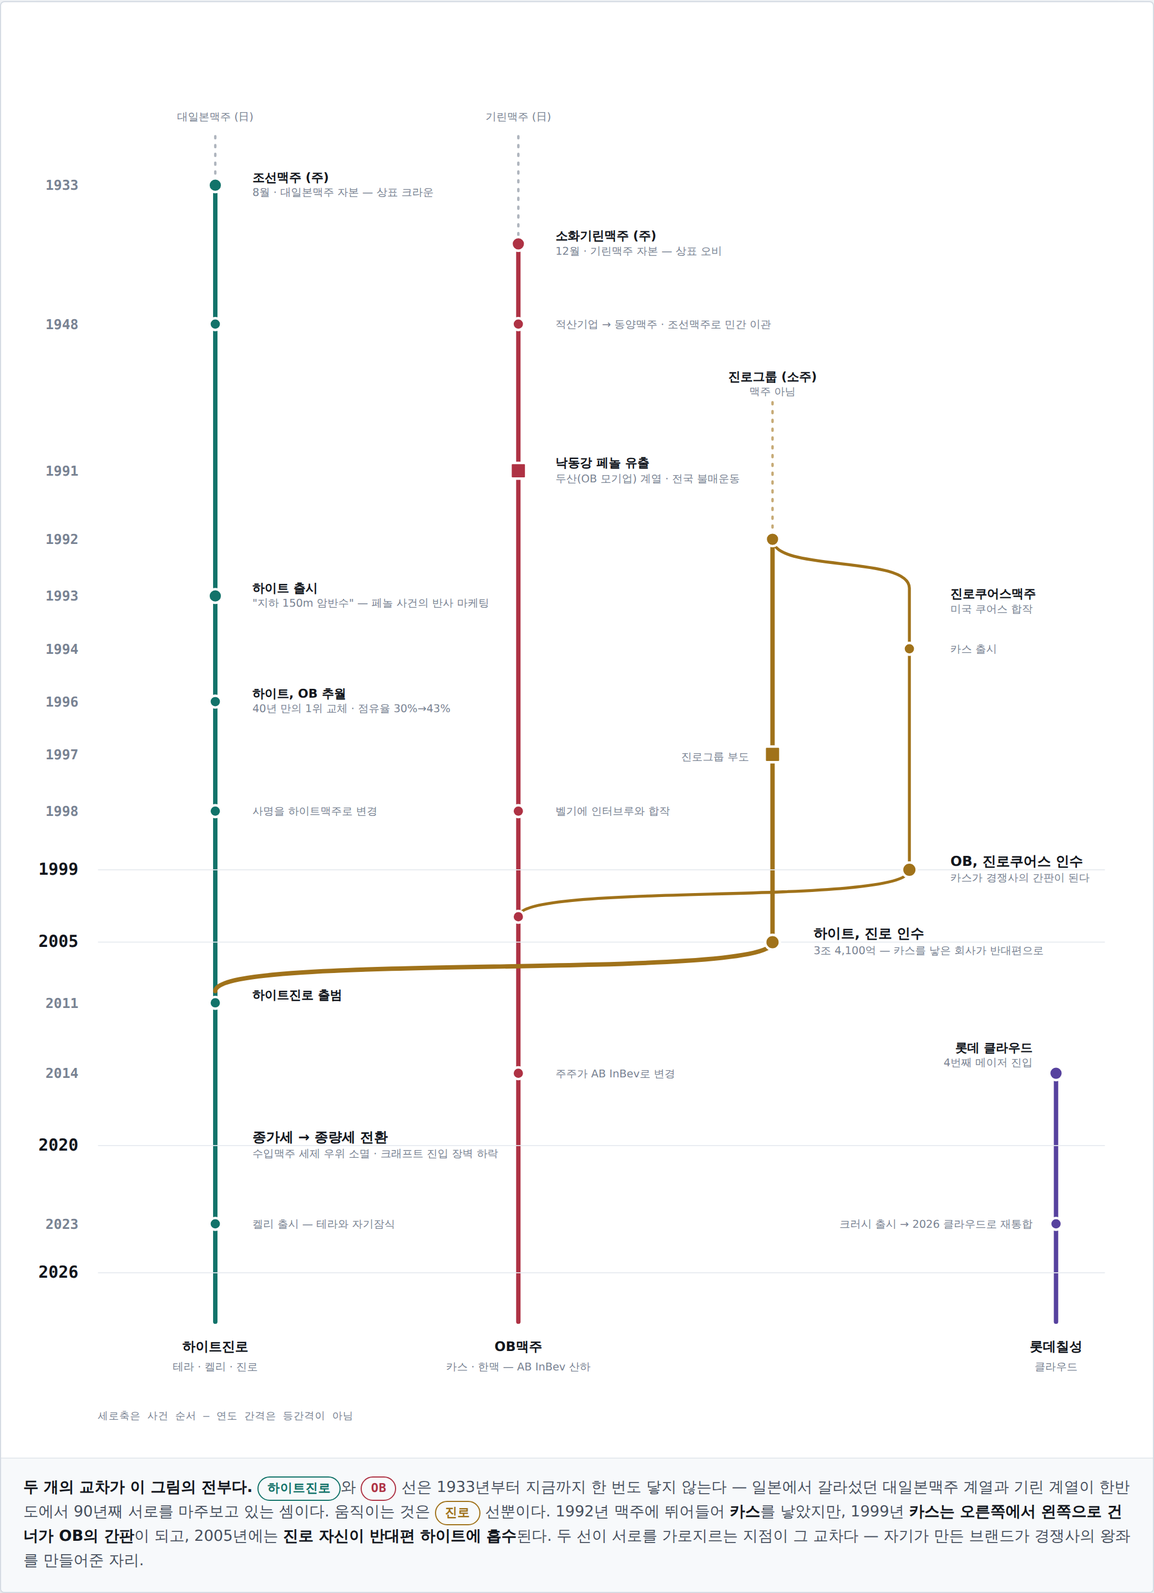
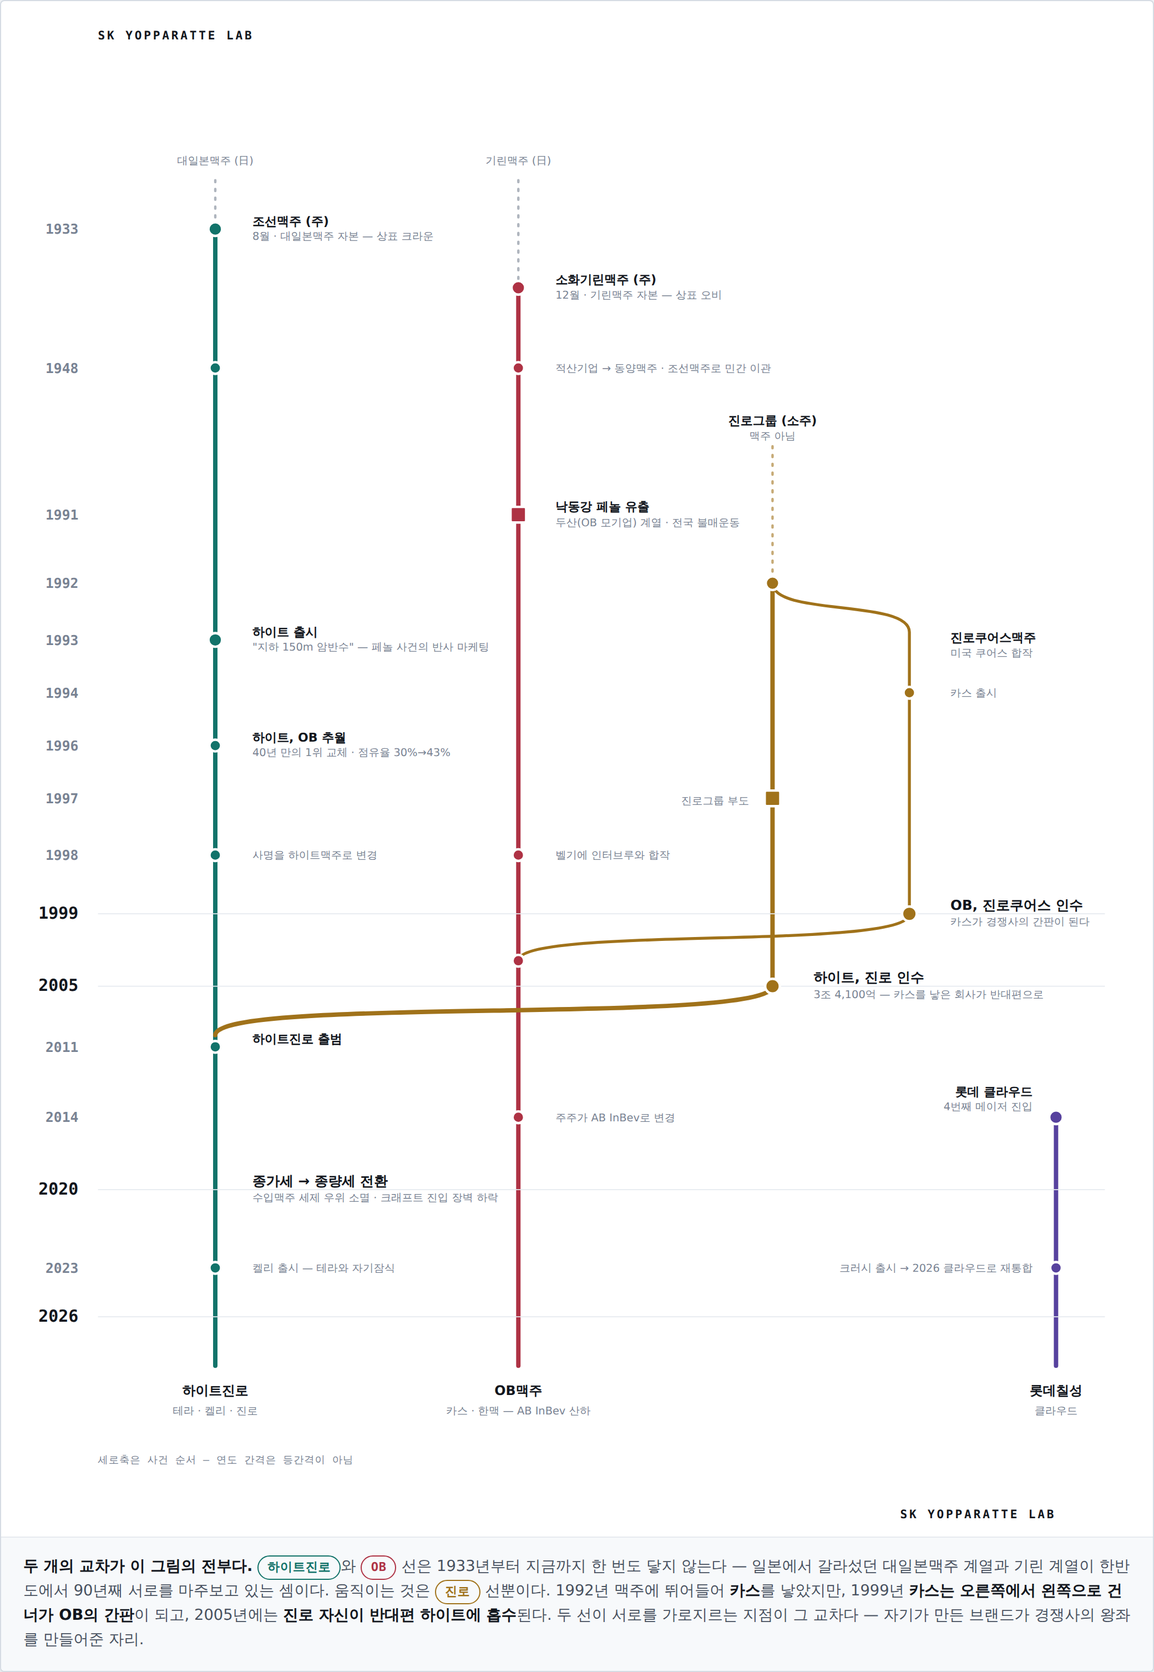
모든 문서 상하단에 SK YOPPARATTE LAB 제작 표기
- HTML 6종: 제목 위 kicker + 하단 크레딧(연도·자료 출처 병기), 굵게
- SVG 5종: 캔버스를 위아래로 확장(viewBox y=-46, 높이 +82)하고
  상단 좌측·하단 우측에 마크 각인 — 그림 파일만 따로 공유돼도 제작처가 남는다
- SVG/PNG 11종 재생성
- mkig.py/mksvg.py: 음수 원점 viewBox 파싱 대응
  (기존 정규식은 <svg>가 아닌 중첩 <marker>의 viewBox를 먼저 잡는 버그도 있었다)

Claude-Session: https://claude.ai/code/session_01KUBqCbH6Pr7kL3zk5exDHD

diff --git a/genealogy/beer-genealogy.html b/genealogy/beer-genealogy.html
@@ -1,5 +1,3 @@
-<meta charset="utf-8">
-<meta name="viewport" content="width=device-width,initial-scale=1">
 <title>일본·한국 맥주 계보</title>
 
 <style>
@@ -97,10 +95,17 @@
   .s-kr .axn{font-size:13.3px;fill:var(--ink-3);font-family:ui-monospace,Menlo,monospace}
   .s-kr .ft{fill:var(--lotte)}
   .s-kr .t{stroke:var(--lotte)}
+  .lab{margin:0 0 12px;font-family:ui-monospace,Menlo,Consolas,monospace;font-size:.8rem;
+    font-weight:800;letter-spacing:.2em;color:var(--ink)}
+  .labfoot{margin-top:44px;padding-top:18px;border-top:1px solid var(--rule);
+    font-family:ui-monospace,Menlo,Consolas,monospace;font-size:.76rem;letter-spacing:.14em;color:var(--ink-3)}
+  .labfoot b{font-weight:800;letter-spacing:.2em;color:var(--ink)}
+  .svglab{font-family:ui-monospace,Menlo,Consolas,monospace;font-weight:800;letter-spacing:.18em;fill:var(--ink)}
 </style>
 
 <div class="wrap">
 <header>
+  <p class="lab">SK YOPPARATTE LAB</p>
   <h1>일본 · 한국 맥주 계보도<br>한 장으로 잇는 두 나라의 혈통</h1>
   <p class="sub">일본은 <b>합병과 강제 분할</b>의 역사이고, 한국은 <b>평행선과 엇갈린 교차</b>의 역사다.
   두 그림은 따로 그려졌지만 뿌리에서 이어져 있다 — 1933년 한반도의 두 맥주 회사를 세운 것이
@@ -113,7 +118,7 @@
   <p class="lead">여섯 혈통의 탄생, 1906년의 거대 합병, 1949년 GHQ의 강제 분할, 그리고 후발 주자의 합류.
   선이 모이면 합병, 갈라지면 분할이다. 맨 아래에는 각 회사의 오늘의 대표 제품과 <b>맛의 결</b>, 시장 점유율을 두었다.</p>
   <figure><div class="canvas">
-<svg viewBox="0 0 1340 2084" role="img" aria-label="일본 맥주 6개 회사 계보도. 기린은 1870년부터 끊기지 않는 독자 노선을 유지한다. 삿포로·에비스·아사히는 1906년 대일본맥주로 합병되어 회색 줄기가 되었다가 1949년 GHQ 명령으로 삿포로와 아사히 둘로 분할된다. 에비스는 1943년 상표가 소멸했다가 1971년 삿포로 산하로 부활한다. 산토리는 1963년, 오리온은 1957년에 합류하며 2019년 오리온은 아사히 산하로 들어간다. 여섯 계보는 각자의 대표 제품으로 이어진다.">
+<svg viewBox="0 -46 1340 2166" role="img" aria-label="일본 맥주 6개 회사 계보도. 기린은 1870년부터 끊기지 않는 독자 노선을 유지한다. 삿포로·에비스·아사히는 1906년 대일본맥주로 합병되어 회색 줄기가 되었다가 1949년 GHQ 명령으로 삿포로와 아사히 둘로 분할된다. 에비스는 1943년 상표가 소멸했다가 1971년 삿포로 산하로 부활한다. 산토리는 1963년, 오리온은 1957년에 합류하며 2019년 오리온은 아사히 산하로 들어간다. 여섯 계보는 각자의 대표 제품으로 이어진다.">
 <defs>
   <marker id="ar" viewBox="0 0 10 10" refX="8" refY="5" markerWidth="6" markerHeight="6" orient="auto-start-reverse">
     <path d="M0 1 L9 5 L0 9 z" fill="var(--orion)"/>
@@ -347,6 +352,9 @@
 <text class="shp fo" x="980" y="2000.0" text-anchor="middle">1%</text>
 <text class="axn" x="150" y="2040.0">세로축은 사건 순서 — 연도 간격은 등간격이 아님 · 아이콘·제품 그림은 브랜드 로고가 아닌 자체 제작</text>
 <text class="axn" x="150" y="2060.0">점유율은 맥주계 음료(ビール類) 기준 근사치 · 에비스는 삿포로 실적에 포함 · 오리온은 아사히 산하지만 별도 법인</text>
+
+<text class="svglab" x="150" y="-16" style="font-size:13px">SK YOPPARATTE LAB</text>
+<text class="svglab" x="1310" y="2110" text-anchor="end" style="font-size:13px">SK YOPPARATTE LAB</text>
 </svg>
   </div>
 <figcaption>
@@ -377,7 +385,7 @@
   <p class="lead">서로 다른 일본 자본에서 출발한 두 축은 90년간 한 번도 만나지 않는다.
   움직이는 것은 중간에 끼어든 제3의 선, <b>진로</b>뿐이다.</p>
   <figure><div class="canvas">
-<svg viewBox="0 0 1590 2250" role="img" aria-label="한국 맥주 계보도. 1933년 조선맥주와 소화기린맥주가 서로 다른 일본 자본으로 설립되고, 1948년 소화기린은 동양맥주로 바뀌며 상표 OB가 등장한 뒤 1995년 사명까지 OB맥주가 된다. 두 선은 90년간 만나지 않는다. 1992년 진로쿠어스가 세워져 1994년 카스를 내지만 1999년 카스는 OB로, 2005년 진로 자신은 하이트로 넘어가며 두 선이 교차한다. 롯데는 2014년 클라우드로 진입한다.">
+<svg viewBox="0 -46 1590 2332" role="img" aria-label="한국 맥주 계보도. 1933년 조선맥주와 소화기린맥주가 서로 다른 일본 자본으로 설립되고, 1948년 소화기린은 동양맥주로 바뀌며 상표 OB가 등장한 뒤 1995년 사명까지 OB맥주가 된다. 두 선은 90년간 만나지 않는다. 1992년 진로쿠어스가 세워져 1994년 카스를 내지만 1999년 카스는 OB로, 2005년 진로 자신은 하이트로 넘어가며 두 선이 교차한다. 롯데는 2014년 클라우드로 진입한다.">
 <defs>
 <linearGradient id="g99" x1="990" y1="0" x2="640" y2="0" gradientUnits="userSpaceOnUse">
   <stop offset="0" stop-color="var(--jinro)"/><stop offset="0.45" stop-color="var(--jinro)"/><stop offset="1" stop-color="var(--ob)"/>
@@ -561,6 +569,9 @@
 <text class="axn" x="150" y="2154">굵은 선 = 맥주 계보 · 가는 선 = 비(非)맥주(소주 진로) — 주제 밖 맥락으로 표시</text>
 <text class="axn" x="150" y="2176">세로축은 사건 순서 — 연도 간격은 등간격이 아님 · 아이콘·제품 그림은 브랜드 로고가 아닌 자체 제작</text>
 <text class="axn" x="150" y="2198">점유율은 제조사 기준 근사치 · 진로는 소주 부문으로 하이트진로에 포함</text>
+
+<text class="svglab" x="150" y="-16" style="font-size:13px">SK YOPPARATTE LAB</text>
+<text class="svglab" x="1540" y="2276" text-anchor="end" style="font-size:13px">SK YOPPARATTE LAB</text>
 </svg>
   </div>
 <figcaption>
@@ -573,4 +584,5 @@
 </figcaption>
   </figure>
 </section>
+<div class="labfoot"><b>SK YOPPARATTE LAB</b> · 2026 · Google Drive 「주류학개론 / 맥주」 자료 기준</div>
 </div>

diff --git a/genealogy/kr-infographic.html b/genealogy/kr-infographic.html
@@ -56,16 +56,23 @@
   .pr{font-weight:800;fill:var(--new)}
   .shn{font-size:12.7px;font-weight:600;fill:var(--ink-3)}
   .axn{font-size:13.3px;fill:var(--ink-3);font-family:ui-monospace,Menlo,monospace}
+  .lab{margin:0 0 12px;font-family:ui-monospace,Menlo,Consolas,monospace;font-size:.8rem;
+    font-weight:800;letter-spacing:.2em;color:var(--ink)}
+  .labfoot{margin-top:44px;padding-top:18px;border-top:1px solid var(--rule);
+    font-family:ui-monospace,Menlo,Consolas,monospace;font-size:.76rem;letter-spacing:.14em;color:var(--ink-3)}
+  .labfoot b{font-weight:800;letter-spacing:.2em;color:var(--ink)}
+  .svglab{font-family:ui-monospace,Menlo,Consolas,monospace;font-weight:800;letter-spacing:.18em;fill:var(--ink)}
 </style>
 
 <div class="wrap">
 <header>
+  <p class="lab">SK YOPPARATTE LAB</p>
   <h1>한국 맥주 90년 계보도<br>평행선과 엇갈린 교차</h1>
   <p class="sub">1933년 <b>조선맥주</b>와 <b>소화기린맥주</b>—서로 다른 일본 자본에서 출발한 두 축은 90년간 한 번도 만나지 않는다.
   움직이는 것은 중간에 끼어든 제3의 선뿐이다.</p>
 </header>
 <figure><div class="canvas">
-<svg viewBox="0 0 1590 2250" role="img" aria-label="한국 맥주 계보도. 1933년 조선맥주와 소화기린맥주가 서로 다른 일본 자본으로 설립되고, 1948년 소화기린은 동양맥주로 바뀌며 상표 OB가 등장한 뒤 1995년 사명까지 OB맥주가 된다. 두 선은 90년간 만나지 않는다. 1992년 진로쿠어스가 세워져 1994년 카스를 내지만 1999년 카스는 OB로, 2005년 진로 자신은 하이트로 넘어가며 두 선이 교차한다. 롯데는 2014년 클라우드로 진입한다.">
+<svg viewBox="0 -46 1590 2332" role="img" aria-label="한국 맥주 계보도. 1933년 조선맥주와 소화기린맥주가 서로 다른 일본 자본으로 설립되고, 1948년 소화기린은 동양맥주로 바뀌며 상표 OB가 등장한 뒤 1995년 사명까지 OB맥주가 된다. 두 선은 90년간 만나지 않는다. 1992년 진로쿠어스가 세워져 1994년 카스를 내지만 1999년 카스는 OB로, 2005년 진로 자신은 하이트로 넘어가며 두 선이 교차한다. 롯데는 2014년 클라우드로 진입한다.">
 <defs>
 <linearGradient id="g99" x1="990" y1="0" x2="640" y2="0" gradientUnits="userSpaceOnUse">
   <stop offset="0" stop-color="var(--jinro)"/><stop offset="0.45" stop-color="var(--jinro)"/><stop offset="1" stop-color="var(--ob)"/>
@@ -249,6 +256,9 @@
 <text class="axn" x="150" y="2154">굵은 선 = 맥주 계보 · 가는 선 = 비(非)맥주(소주 진로) — 주제 밖 맥락으로 표시</text>
 <text class="axn" x="150" y="2176">세로축은 사건 순서 — 연도 간격은 등간격이 아님 · 아이콘·제품 그림은 브랜드 로고가 아닌 자체 제작</text>
 <text class="axn" x="150" y="2198">점유율은 제조사 기준 근사치 · 진로는 소주 부문으로 하이트진로에 포함</text>
+
+<text class="svglab" x="150" y="-16" style="font-size:13px">SK YOPPARATTE LAB</text>
+<text class="svglab" x="1540" y="2276" text-anchor="end" style="font-size:13px">SK YOPPARATTE LAB</text>
 </svg>
 </div>
 <figcaption>
@@ -259,4 +269,5 @@
 두 선은 끝까지 닿지 않는다. 움직이는 것은 <span style="color:var(--jinro);font-weight:700">진로</span> 선뿐이다 —
 1992년 맥주에 뛰어들어 <b>카스</b>를 낳았지만, 진로그룹이 부도나며 <b>둘이 정반대로 갈라진다</b> — 맥주 브랜드 <b>카스</b>는 1999년 오른쪽 <b>OB</b>로(그 뒤 지금까지 OB 제품), 소주 본체 <b>진로</b>는 2005년 왼쪽 <b>하이트</b>로.
 </figcaption>
-</figure></div>
+</figure><div class="labfoot"><b>SK YOPPARATTE LAB</b> · 2026 · Google Drive 「주류학개론 / 맥주」 자료 기준</div>
+</div>

diff --git a/genealogy/jp-infographic.html b/genealogy/jp-infographic.html
@@ -59,10 +59,17 @@
   .axn{font-size:12.1px;fill:var(--ink-3);font-family:ui-monospace,Menlo,monospace}
   .tst{font-size:12.3px;font-weight:600;fill:var(--ink-3)}
   .tsh{font-size:11.5px;font-weight:700;fill:var(--ink-3);letter-spacing:.06em}
+  .lab{margin:0 0 12px;font-family:ui-monospace,Menlo,Consolas,monospace;font-size:.8rem;
+    font-weight:800;letter-spacing:.2em;color:var(--ink)}
+  .labfoot{margin-top:44px;padding-top:18px;border-top:1px solid var(--rule);
+    font-family:ui-monospace,Menlo,Consolas,monospace;font-size:.76rem;letter-spacing:.14em;color:var(--ink-3)}
+  .labfoot b{font-weight:800;letter-spacing:.2em;color:var(--ink)}
+  .svglab{font-family:ui-monospace,Menlo,Consolas,monospace;font-weight:800;letter-spacing:.18em;fill:var(--ink)}
 </style>
 
 <div class="wrap">
 <header>
+  <p class="lab">SK YOPPARATTE LAB</p>
   <h1>일본 맥주 150년 계보도<br>통합과 분리의 역사</h1>
   <p class="sub">1870년부터 오늘까지, 여섯 혈통의 탄생과 거대 합병, 강제 분할, 그리고 후발 주자의 등장.
   선이 모이면 합병, 갈라지면 분할이다.</p>
@@ -70,7 +77,7 @@
 
 <figure>
 <div class="canvas">
-<svg viewBox="0 0 1340 2084" role="img" aria-label="일본 맥주 6개 회사 계보도. 기린은 1870년부터 끊기지 않는 독자 노선을 유지한다. 삿포로·에비스·아사히는 1906년 대일본맥주로 합병되어 회색 줄기가 되었다가 1949년 GHQ 명령으로 삿포로와 아사히 둘로 분할된다. 에비스는 1943년 상표가 소멸했다가 1971년 삿포로 산하로 부활한다. 산토리는 1963년, 오리온은 1957년에 합류하며 2019년 오리온은 아사히 산하로 들어간다. 여섯 계보는 각자의 대표 제품으로 이어진다.">
+<svg viewBox="0 -46 1340 2166" role="img" aria-label="일본 맥주 6개 회사 계보도. 기린은 1870년부터 끊기지 않는 독자 노선을 유지한다. 삿포로·에비스·아사히는 1906년 대일본맥주로 합병되어 회색 줄기가 되었다가 1949년 GHQ 명령으로 삿포로와 아사히 둘로 분할된다. 에비스는 1943년 상표가 소멸했다가 1971년 삿포로 산하로 부활한다. 산토리는 1963년, 오리온은 1957년에 합류하며 2019년 오리온은 아사히 산하로 들어간다. 여섯 계보는 각자의 대표 제품으로 이어진다.">
 <defs>
   <marker id="ar" viewBox="0 0 10 10" refX="8" refY="5" markerWidth="6" markerHeight="6" orient="auto-start-reverse">
     <path d="M0 1 L9 5 L0 9 z" fill="var(--orion)"/>
@@ -304,6 +311,9 @@
 <text class="shp fo" x="980" y="2000.0" text-anchor="middle">1%</text>
 <text class="axn" x="150" y="2040.0">세로축은 사건 순서 — 연도 간격은 등간격이 아님 · 아이콘·제품 그림은 브랜드 로고가 아닌 자체 제작</text>
 <text class="axn" x="150" y="2060.0">점유율은 맥주계 음료(ビール類) 기준 근사치 · 에비스는 삿포로 실적에 포함 · 오리온은 아사히 산하지만 별도 법인</text>
+
+<text class="svglab" x="150" y="-16" style="font-size:13px">SK YOPPARATTE LAB</text>
+<text class="svglab" x="1310" y="2110" text-anchor="end" style="font-size:13px">SK YOPPARATTE LAB</text>
 </svg>
 </div>
 <figcaption>
@@ -316,4 +326,5 @@
 여섯 계보는 합쳐지지 않고, 각자 오늘의 대표 제품으로 이어진다.
 </figcaption>
 </figure>
+<div class="labfoot"><b>SK YOPPARATTE LAB</b> · 2026 · Google Drive 「주류학개론 / 맥주」 자료 기준</div>
 </div>

diff --git a/genealogy/kr-beer-genealogy.html b/genealogy/kr-beer-genealogy.html
@@ -142,11 +142,17 @@
   .note{margin-top:26px;padding:14px 18px;border-left:3px solid var(--rule);background:var(--panel-2);font-size:.855rem;color:var(--ink-2);border-radius:0 4px 4px 0}
   .note b{color:var(--ink)}
   footer{margin-top:56px;padding-top:20px;border-top:1px solid var(--rule);font-size:.8rem;color:var(--ink-3)}
+  .lab{margin:0 0 12px;font-family:ui-monospace,Menlo,Consolas,monospace;font-size:.8rem;
+    font-weight:800;letter-spacing:.2em;color:var(--ink)}
+  .labname{font-family:ui-monospace,Menlo,Consolas,monospace;font-weight:800;
+    letter-spacing:.2em;color:var(--ink)}
+  .svglab{font-family:ui-monospace,Menlo,Consolas,monospace;font-weight:800;letter-spacing:.18em;fill:var(--ink)}
 </style>
 
 <div class="wrap">
 
 <header>
+  <p class="lab">SK YOPPARATTE LAB</p>
   <p class="eyebrow">계보도 · 1933–2026</p>
   <h1>한국 맥주 90년,<br>두 일본 자본이 만든 평행선</h1>
   <p class="thesis">
@@ -164,7 +170,7 @@
 
   <figure>
     <div class="canvas">
-      <svg viewBox="0 0 1160 1470" role="img"
+      <svg viewBox="0 -46 1160 1552" role="img"
            aria-label="한국 맥주 계보도. 1933년 8월 대일본맥주 자본으로 조선맥주가, 같은 해 12월 기린맥주 자본으로 소화기린맥주가 설립되어 각각 하이트진로와 OB맥주가 된다. 두 선은 90년간 만나지 않는다. 1992년 진로그룹이 쿠어스와 합작해 진로쿠어스를 만들고 1994년 카스를 출시하지만, 1999년 카스는 OB로 넘어가고 2005년 진로 자신은 하이트에 인수되어 두 선이 서로 교차한다. 롯데는 2014년 클라우드로 뒤늦게 진입한다.">
 
         <!-- ── 일본 모자본 점선 ── -->
@@ -310,6 +316,9 @@
         <text class="lbl sub" x="1070" y="1390" text-anchor="middle">클라우드</text>
 
         <text class="axnote" x="90" y="1440">세로축은 사건 순서 — 연도 간격은 등간격이 아님</text>
+      
+        <text class="svglab" x="90" y="-16" style="font-size:12px">SK YOPPARATTE LAB</text>
+        <text class="svglab" x="1070" y="1496" text-anchor="end" style="font-size:12px">SK YOPPARATTE LAB</text>
       </svg>
     </div>
     <figcaption>
@@ -386,7 +395,7 @@
 
   <figure>
     <div class="canvas">
-      <svg viewBox="0 0 1000 420" role="img"
+      <svg viewBox="0 -46 1000 502" role="img"
            aria-label="한국 수제맥주 시장 규모 막대그래프. 2013년 93억 원에서 2021년 1520억 원으로 16배 성장한 뒤 2023년 752억 원으로 반토막 났다.">
 
         <line class="gridline" x1="80" y1="330" x2="960" y2="330"/>
@@ -422,6 +431,9 @@
         <text class="lbl sub" x="600" y="160">2026 어메이징브루잉 파산</text>
 
         <text class="axnote" x="80" y="404">단위 억 원 · 국내 수제맥주 시장 규모 — 출처 자료에 있는 3개 연도만 표시</text>
+      
+        <text class="svglab" x="90" y="-16" style="font-size:11px">SK YOPPARATTE LAB</text>
+        <text class="svglab" x="920" y="446" text-anchor="end" style="font-size:11px">SK YOPPARATTE LAB</text>
       </svg>
     </div>
     <figcaption>
@@ -480,6 +492,7 @@
 </section>
 
 <footer>
+  <span class="labname">SK YOPPARATTE LAB</span> 제작<br>
   출처 · Google Drive 「주류학개론 / 맥주」 폴더 — 한국_맥주_종합_정리.md, 일본 맥주 종합 정리, 맥주_종합_마스터_가이드
 </footer>
 

diff --git a/genealogy/jp-beer-genealogy.html b/genealogy/jp-beer-genealogy.html
@@ -194,11 +194,17 @@
   .note b{color:var(--ink)}
 
   footer{margin-top:56px;padding-top:20px;border-top:1px solid var(--rule);font-size:.8rem;color:var(--ink-3)}
+  .lab{margin:0 0 12px;font-family:ui-monospace,Menlo,Consolas,monospace;font-size:.8rem;
+    font-weight:800;letter-spacing:.2em;color:var(--ink)}
+  .labname{font-family:ui-monospace,Menlo,Consolas,monospace;font-weight:800;
+    letter-spacing:.2em;color:var(--ink)}
+  .svglab{font-family:ui-monospace,Menlo,Consolas,monospace;font-weight:800;letter-spacing:.18em;fill:var(--ink)}
 </style>
 
 <div class="wrap">
 
 <header>
+  <p class="lab">SK YOPPARATTE LAB</p>
   <p class="eyebrow">계보도 · 1870–2026</p>
   <h1>일본 맥주 150년,<br>선으로 따라가는 계보</h1>
   <p class="thesis">
@@ -216,7 +222,7 @@
 
   <figure>
     <div class="canvas">
-      <svg viewBox="0 0 1160 1496" role="img"
+      <svg viewBox="0 -46 1160 1578" role="img"
            aria-label="일본 맥주 6개 회사의 계보도. 기린은 1870년부터 2026년까지 한 번도 합병·분할 없이 독립 선으로 이어진다. 삿포로·에비스·아사히 세 선은 1906년 대일본맥주로 합쳐져 하나의 회색 줄기가 되었다가 1949년 GHQ 명령으로 삿포로와 아사히 두 선으로 갈라진다. 에비스는 1943년 상표가 소멸했다가 1971년 삿포로에서 갈라져 나와 부활한다. 산토리는 1899년 토리이 상점으로 존재했지만 맥주와 무관한 점선으로 표시되다가 1963년에야 실선으로 합류한다. 오리온은 1957년 오키나와에서 창업해 2019년 아사히 컨소시엄에 지분이 넘어간다.">
 
         <!-- 합병 구간 음영 -->
@@ -360,6 +366,9 @@
         <text class="lbl sub" x="1040" y="1445" text-anchor="middle">아사히 산하</text>
 
         <text class="axnote" x="90" y="1488">세로축은 사건 순서 — 연도 간격은 등간격이 아님</text>
+      
+        <text class="svglab" x="90" y="-16" style="font-size:12px">SK YOPPARATTE LAB</text>
+        <text class="svglab" x="1070" y="1522" text-anchor="end" style="font-size:12px">SK YOPPARATTE LAB</text>
       </svg>
     </div>
     <figcaption>
@@ -509,6 +518,7 @@
 </section>
 
 <footer>
+  <span class="labname">SK YOPPARATTE LAB</span> 제작<br>
   출처 · Google Drive 「주류학개론 / 맥주」 폴더 — 맥주의 모든것 V2, 일본 맥주 종합 정리, 맥주_종합_마스터_가이드, 일본 맥주 산업 150년 역사1.png
 </footer>
 

diff --git a/index.html b/index.html
@@ -35,6 +35,10 @@
   header{padding:64px 0 34px;border-bottom:1px solid var(--rule)}
   .kicker{font-family:ui-monospace,Menlo,Consolas,monospace;font-size:.78rem;font-weight:800;
     letter-spacing:.18em;color:var(--ink-3);margin:0 0 14px}
+  .lab{margin:0 0 10px;font-family:ui-monospace,Menlo,Consolas,monospace;font-size:.8rem;
+    font-weight:800;letter-spacing:.2em;color:var(--ink)}
+  .labname{font-family:ui-monospace,Menlo,Consolas,monospace;font-weight:800;
+    letter-spacing:.2em;color:var(--ink)}
   h1{margin:0;font-size:clamp(2rem,5.4vw,3.2rem);font-weight:850;letter-spacing:-.045em;line-height:1.1;text-wrap:balance}
   .sub{margin:18px 0 0;max-width:58ch;color:var(--ink-2);font-size:1.05rem;text-wrap:pretty}
 
@@ -74,6 +78,7 @@
 <div class="wrap">
 
 <header>
+  <p class="lab">SK YOPPARATTE LAB</p>
   <p class="kicker">주류학개론 · 맥주</p>
   <h1>맥주 계보 아카이브</h1>
   <p class="sub">연표가 아니라 <b>혈통</b>을 그린다. 선이 모이면 합병, 갈라지면 분할이다.
@@ -159,6 +164,7 @@
 </div>
 
 <footer>
+  <span class="labname">SK YOPPARATTE LAB</span> 제작 · 2026<br>
   Google Drive 「주류학개론 / 맥주」 자료를 근거로 작성 · 소스는
   <a href="https://github.com/skda0228/beer">github.com/skda0228/beer</a>
 </footer>
